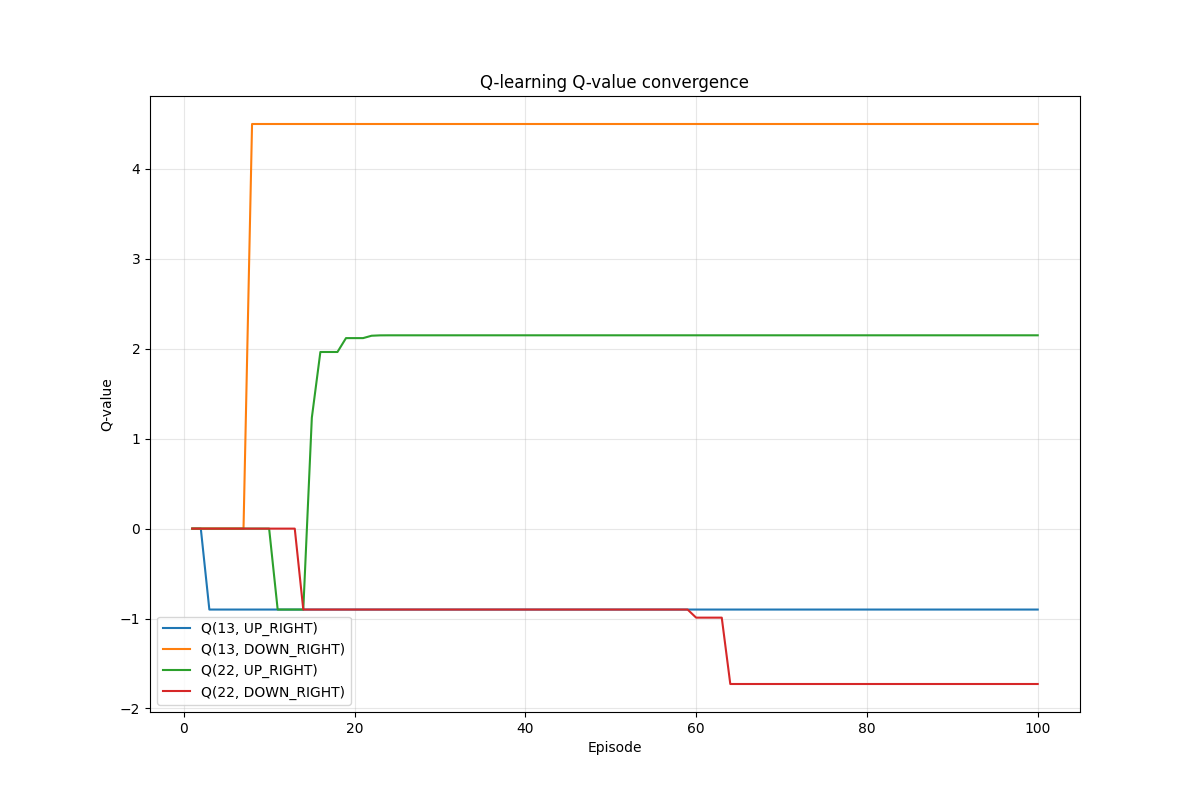
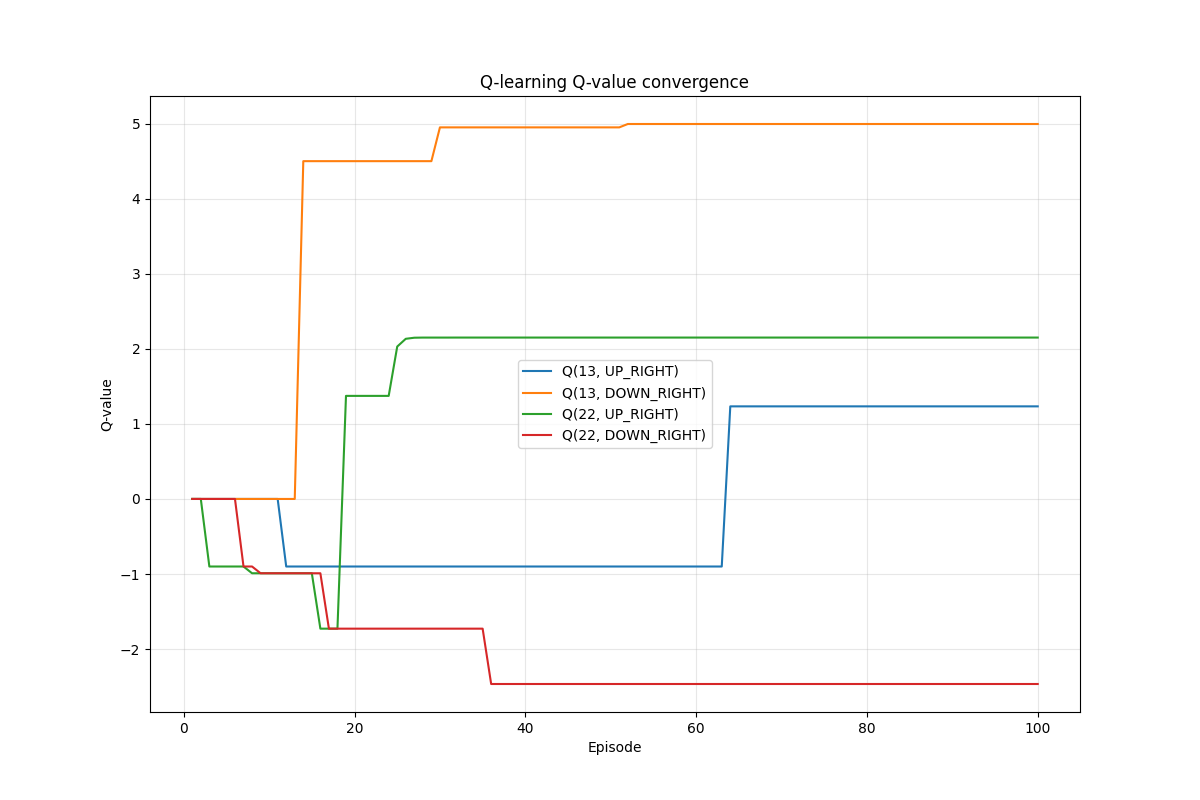
fixed plots

diff --git a/Lab2/sarsa.py b/Lab2/sarsa.py
@@ -49,8 +49,13 @@ def sarsa(env, num_episodes, alpha, gamma, epsilon):
             
             rewards += r
             steps += 1
+        
+        if steps in steps_episodes.keys():
+            steps_episodes[steps] += 1
             
-        steps_episodes[eps + 1] = steps
+        else:
+            steps_episodes[steps] = 1
+        
         rewards_episodes[eps + 1] = rewards
         Q_13_U[eps + 1] = Q[13, 0]
         Q_13_D[eps + 1] = Q[13, 1]
@@ -59,16 +64,16 @@ def sarsa(env, num_episodes, alpha, gamma, epsilon):
         
     plt.figure(figsize=(12, 6))
     plt.bar(steps_episodes.keys(), steps_episodes.values())
-    plt.xlabel('Episode')
-    plt.ylabel('Steps')
-    plt.title('Sarsa steps per episode')
+    plt.xlabel('Steps')
+    plt.ylabel('Episodes')
+    plt.title('Q-learning steps per episode')
     plt.savefig('fonts/sarsa_steps_eps.png')
     
     plt.figure(figsize=(12, 6))
     plt.plot(rewards_episodes.keys(), rewards_episodes.values())
-    plt.xlabel('Episode')
+    plt.xlabel('Episodes')
     plt.ylabel('Sum of rewards during episode')
-    plt.title('Sarsa rewards per episode')
+    plt.title('Q-learning rewards per episode')
     plt.savefig('fonts/sarsa_rewards_eps.png')
     
     plt.figure(figsize=(12, 8))
@@ -78,11 +83,11 @@ def sarsa(env, num_episodes, alpha, gamma, epsilon):
     plt.plot(Q_22_D.keys(), Q_22_D.values(), label='Q(22, DOWN_RIGHT)')
     plt.xlabel('Episode')
     plt.ylabel('Q-value')
-    plt.title('Sarsa Q-value convergence')
+    plt.title('Q-learning Q-value convergence')
     plt.legend()
     plt.grid(True, alpha=0.3)
     plt.savefig('fonts/sarsa_q_convergence.png')
-
+    
     # END YOUR CODE HERE
 
     return Q

diff --git a/Lab2/q_learning.py b/Lab2/q_learning.py
@@ -17,7 +17,7 @@ def q_learning(env, num_episodes, alpha, gamma, epsilon, render=False):
     Q_13_D = {}
     Q_22_U = {}
     Q_22_D = {}
-    
+        
     for eps in range(num_episodes):
         s, _ = env.reset()
         
@@ -47,10 +47,15 @@ def q_learning(env, num_episodes, alpha, gamma, epsilon, render=False):
                 else:
                     a = np.argmax(Q[s, :])
             
-            rewards += 1
+            rewards += r
             steps += 1
+        
+        if steps in steps_episodes.keys():
+            steps_episodes[steps] += 1
             
-        steps_episodes[eps + 1] = steps
+        else:
+            steps_episodes[steps] = 1
+            
         rewards_episodes[eps + 1] = rewards
         Q_13_U[eps + 1] = Q[13, 0]
         Q_13_D[eps + 1] = Q[13, 1]
@@ -59,14 +64,14 @@ def q_learning(env, num_episodes, alpha, gamma, epsilon, render=False):
         
     plt.figure(figsize=(12, 6))
     plt.bar(steps_episodes.keys(), steps_episodes.values())
-    plt.xlabel('Episode')
-    plt.ylabel('Steps')
+    plt.xlabel('Steps')
+    plt.ylabel('Episodes')
     plt.title('Q-learning steps per episode')
     plt.savefig('fonts/q_learning_steps_eps.png')
     
     plt.figure(figsize=(12, 6))
     plt.plot(rewards_episodes.keys(), rewards_episodes.values())
-    plt.xlabel('Episode')
+    plt.xlabel('Episodes')
     plt.ylabel('Sum of rewards during episode')
     plt.title('Q-learning rewards per episode')
     plt.savefig('fonts/q_learning_rewards_eps.png')
